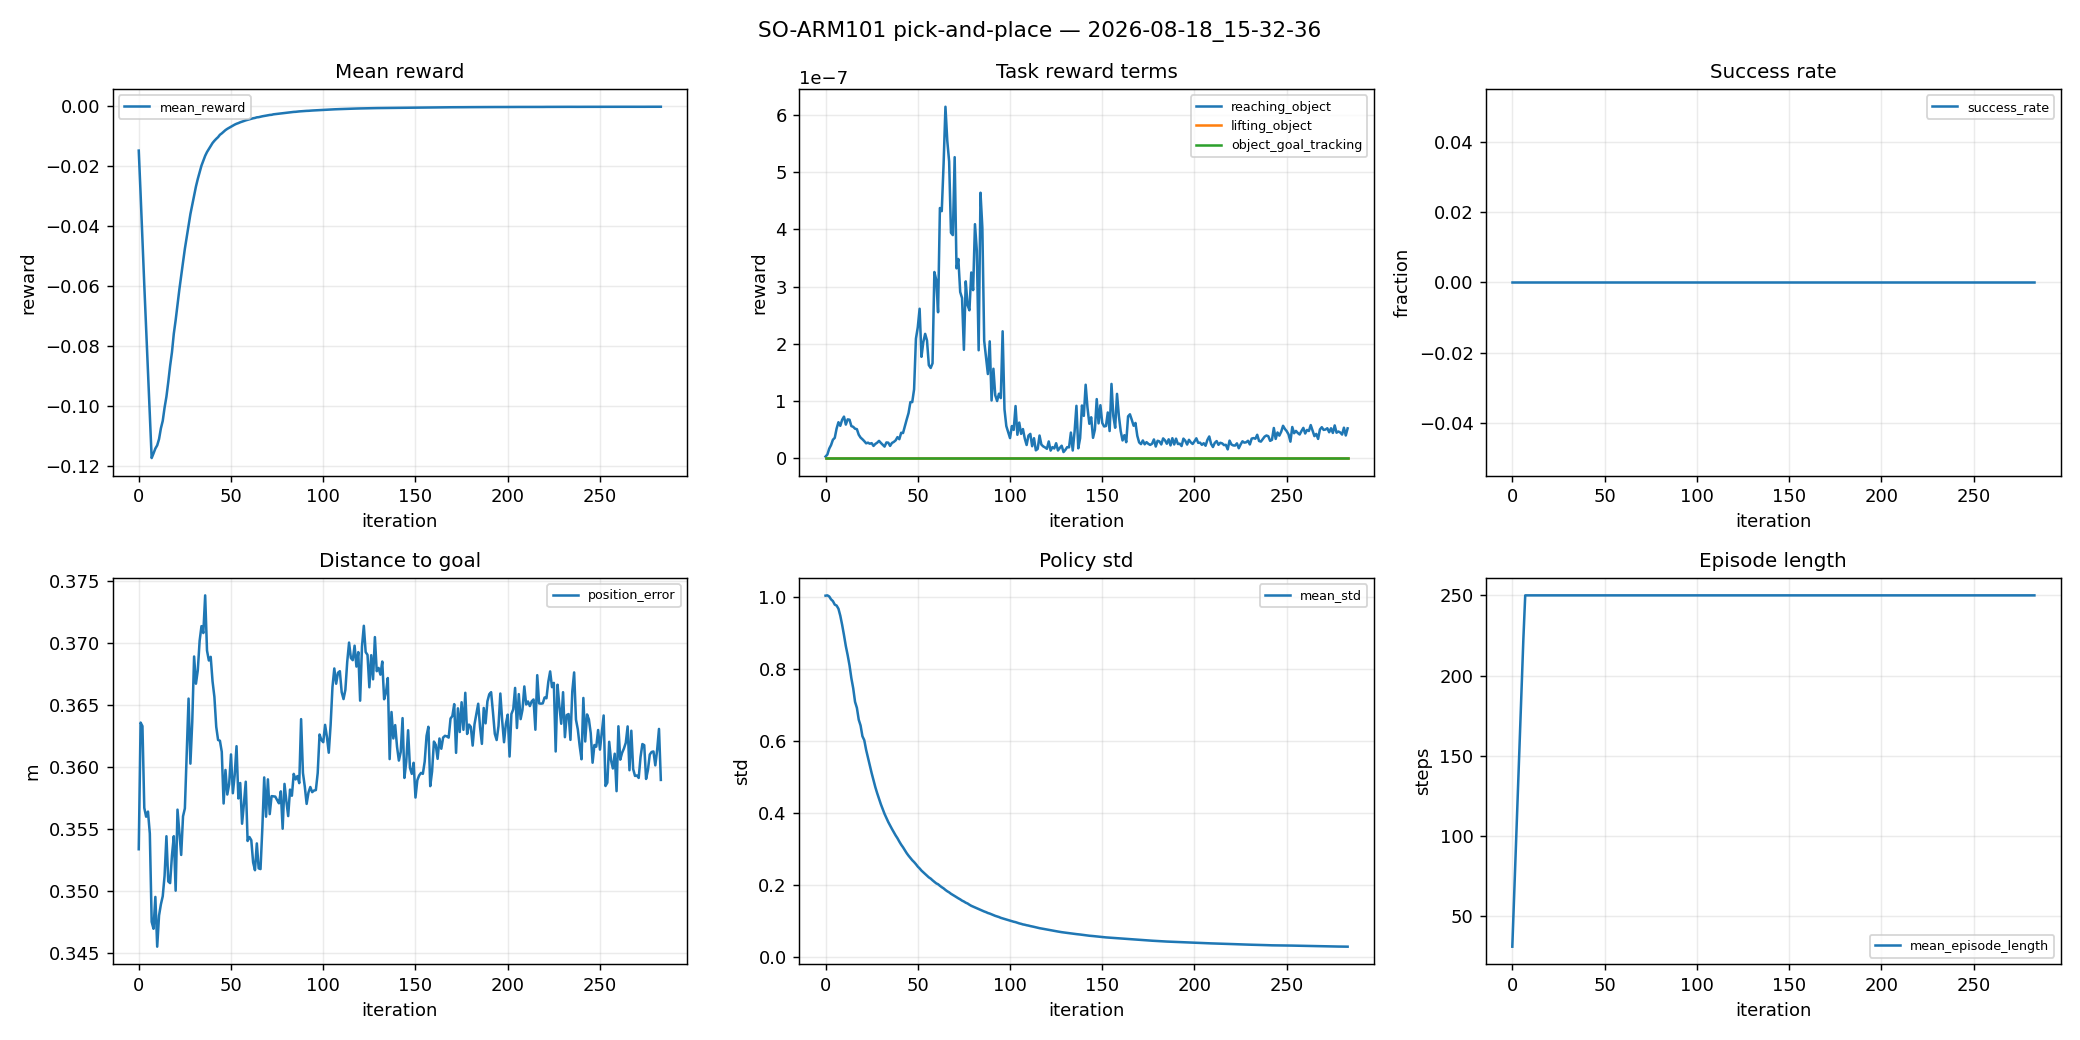
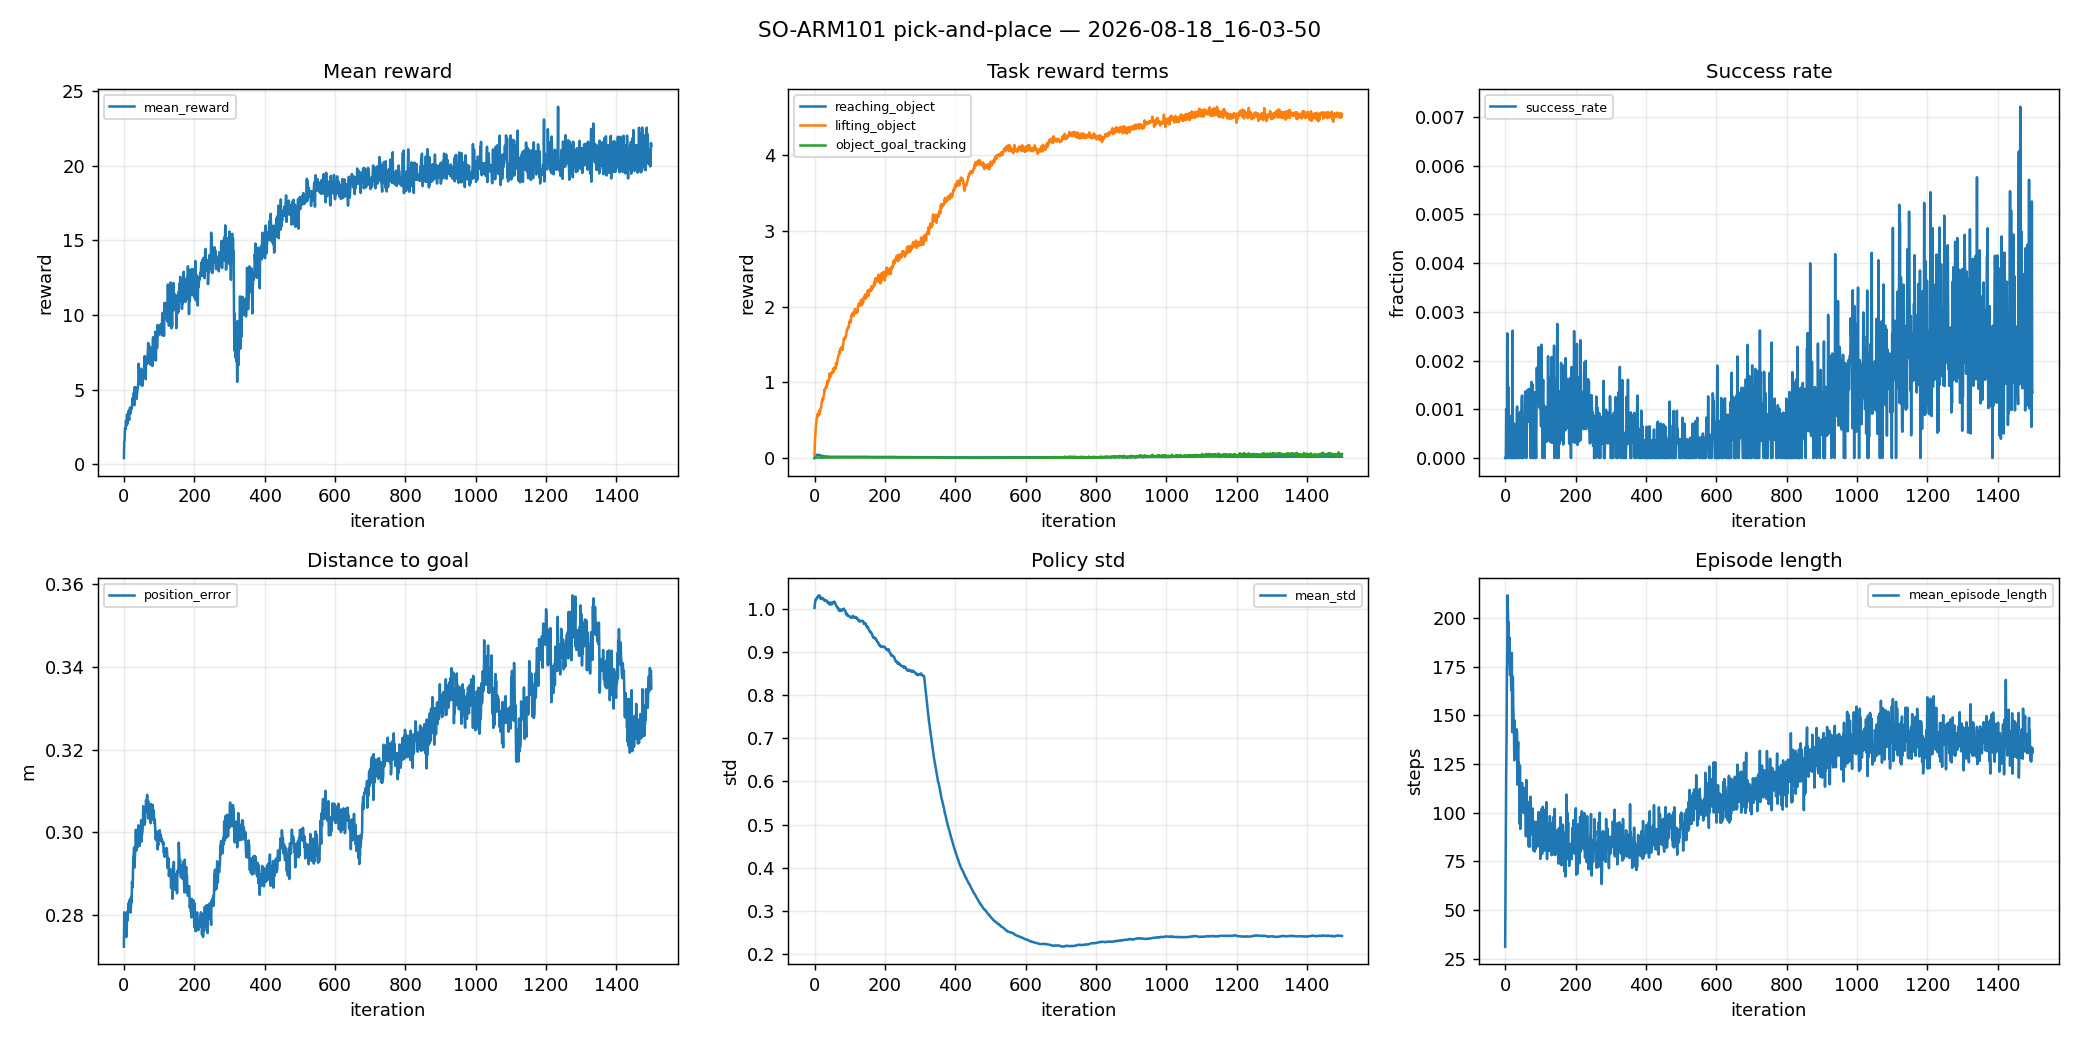
Restore goal-tracking shaping width to upstream 0.3
The 1500-iteration run learned to pick but not to place: lifting_object
finished at +4.53 while object_goal_tracking managed only +0.05, distance to
goal drifted the wrong way (0.272 -> 0.335 m), and success_rate ended at
0.13%. The policy had correctly found that lifting the cube and holding it
paid, and that carrying it anywhere paid almost nothing.

Cause was mine: object_goal_tracking std had been cut 0.3 -> 0.12 under the
same 'the arm is 3x smaller' reasoning that already had to be reverted for
reaching_object. At the measured 0.335 m object-to-goal distance,
1 - tanh(d/std) is 0.007 at 0.12 against 0.194 at 0.30 -- no gradient on the
place stage at all.

Shaping width has to span the distance the object must travel; it is not a
function of the robot's size. Reverts std to 0.3, fine_grained to 0.05 and
success_threshold to 0.05.

Also records that --video needs moviepy + imageio-ffmpeg, which the isaacsim
pip bundle does not pull in.

diff --git a/so101_scene/pick_place_env_cfg.py b/so101_scene/pick_place_env_cfg.py
@@ -218,10 +218,19 @@ class SO101CubePickPlaceEnvCfg(LiftEnvCfg):
         self.rewards.reaching_object.params["std"] = 0.10
         self.rewards.lifting_object.params["minimal_height"] = 0.025
         self.rewards.object_goal_tracking.params["minimal_height"] = 0.025
-        self.rewards.object_goal_tracking.params["std"] = 0.12
-        self.rewards.object_goal_tracking.params["success_threshold"] = 0.03
+        # Goal-tracking shaping stays at the upstream 0.3. Tightening it to 0.12 -- the same
+        # "3x smaller arm" reasoning that already broke reaching_object -- was measured to
+        # cost the whole place stage: at the observed 0.335 m object-to-goal distance,
+        # 1 - tanh(d/std) gives 0.007 at std=0.12 versus 0.194 at 0.30. The run that used
+        # 0.12 learned to lift the cube (lifting_object +4.53) and then hold it, because
+        # carrying it toward the goal paid only +0.05. Distance to goal actually got worse
+        # over training (0.272 -> 0.335) and success_rate finished at 0.13%.
+        #
+        # The width has to span the distance the object must travel, not the arm's size.
+        self.rewards.object_goal_tracking.params["std"] = 0.30
+        self.rewards.object_goal_tracking.params["success_threshold"] = 0.05
         self.rewards.object_goal_tracking_fine_grained.params["minimal_height"] = 0.025
-        self.rewards.object_goal_tracking_fine_grained.params["std"] = 0.03
+        self.rewards.object_goal_tracking_fine_grained.params["std"] = 0.05
 
         self.rewards.joint_vel.params["asset_cfg"] = SceneEntityCfg("robot", joint_names=SO101_ARM_JOINTS)
 
